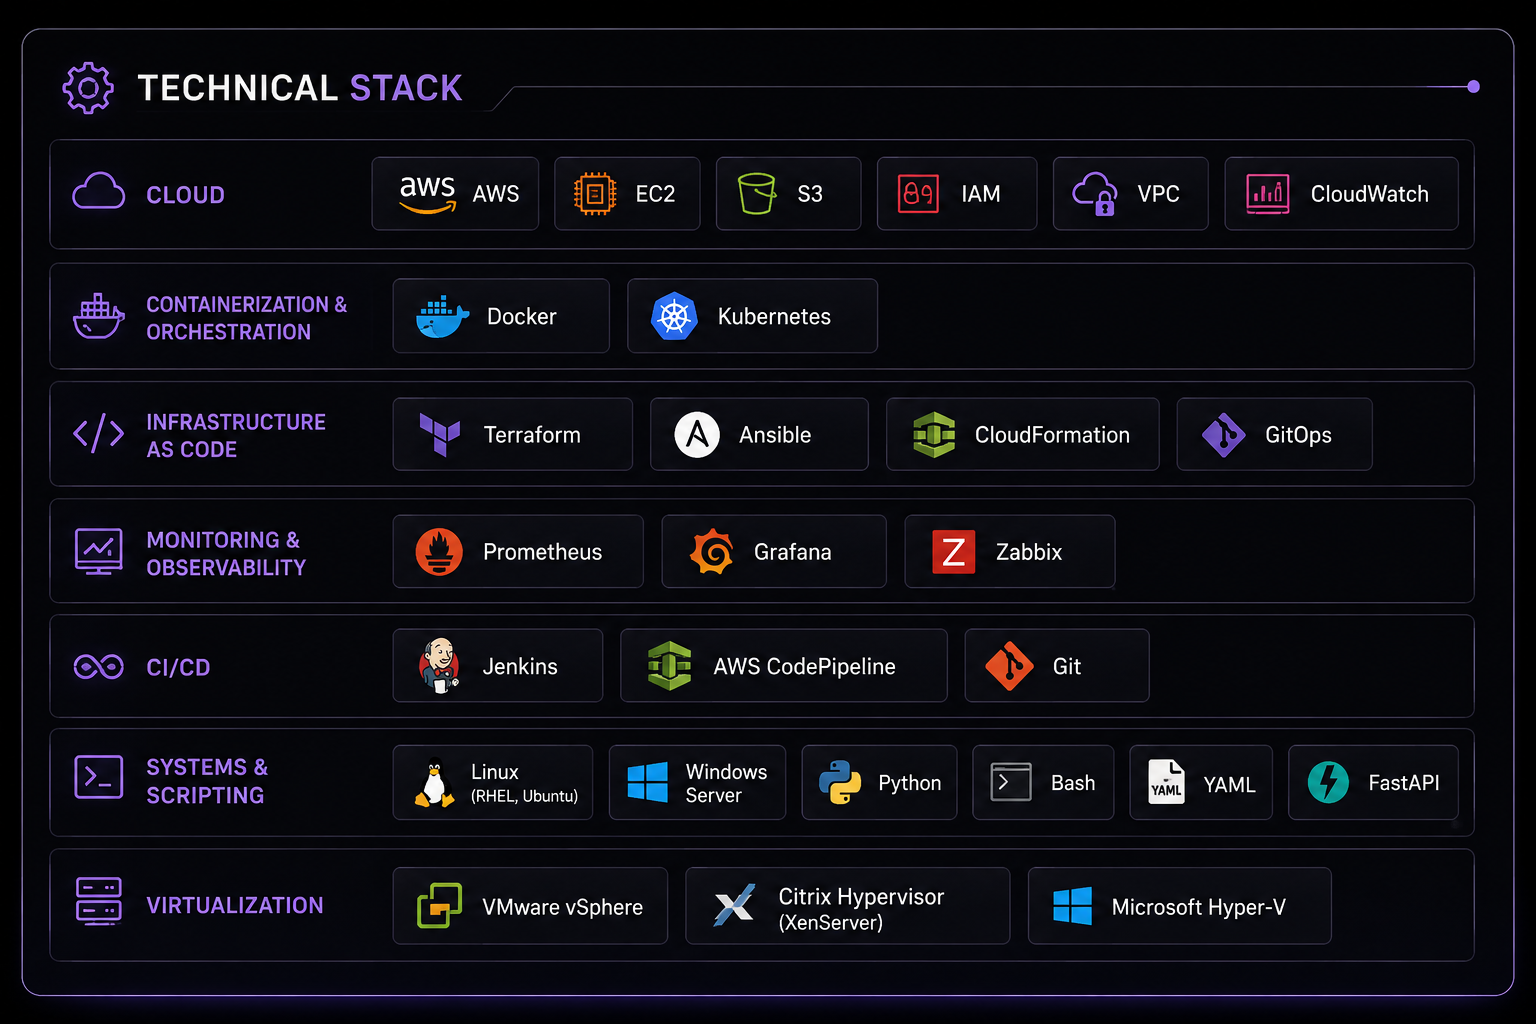
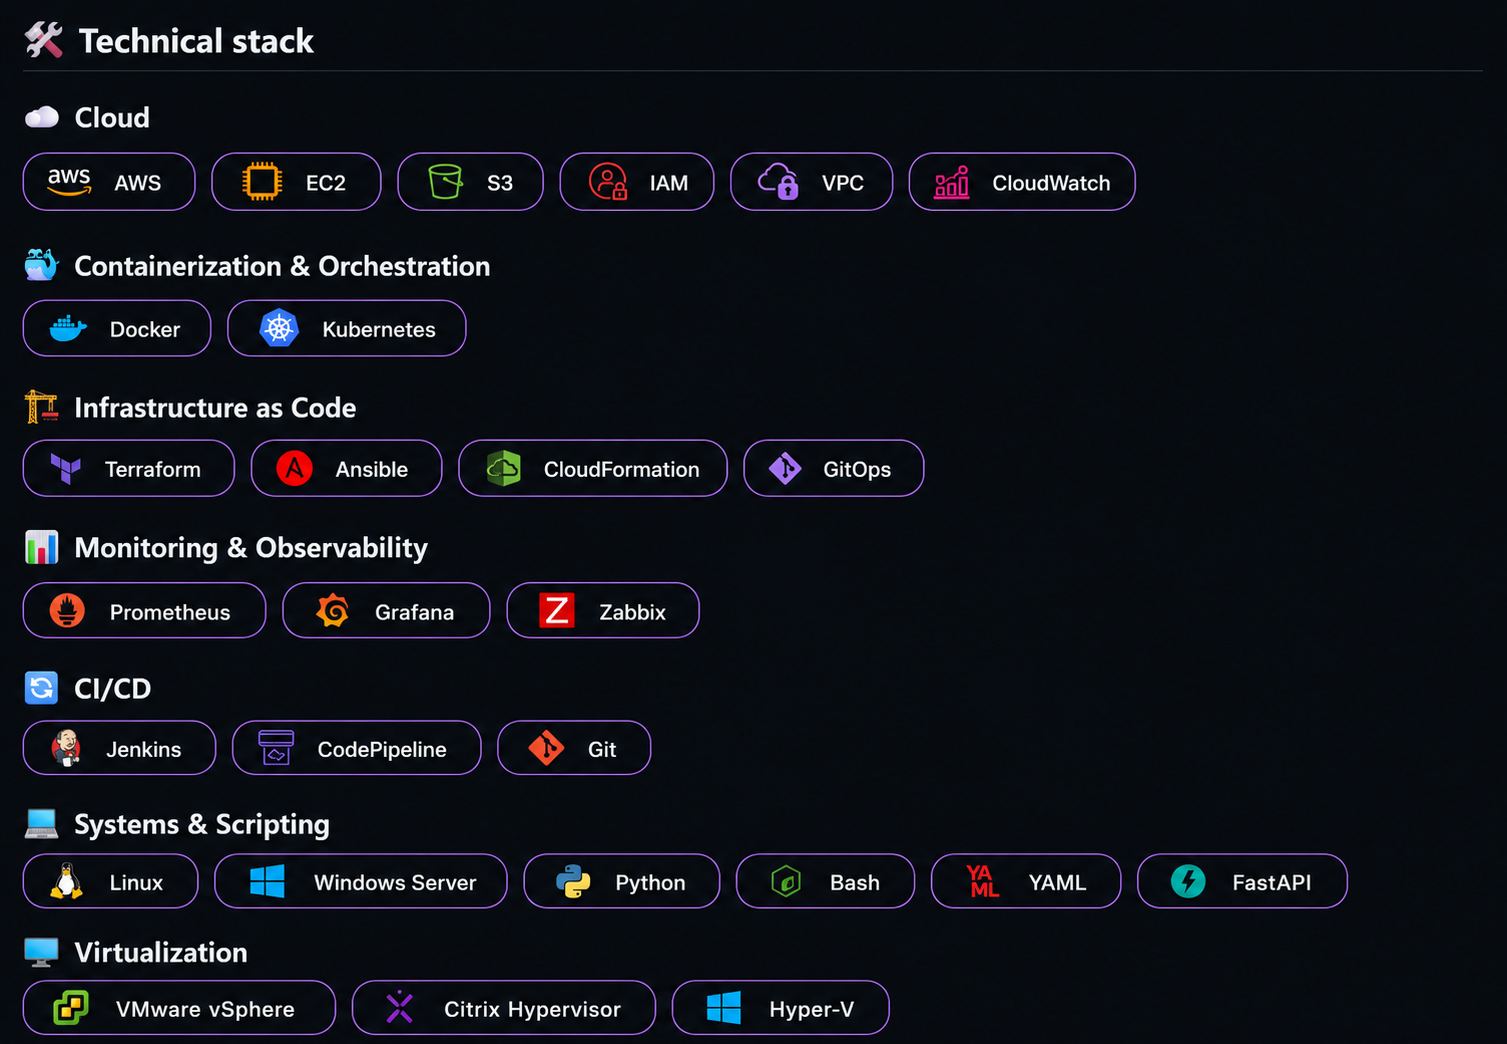
refine profile hero and about section

diff --git a/README.md b/README.md
@@ -18,80 +18,4 @@ I hold the **AWS Certified Solutions Architect – Associate** and **Certified K
 
 ---
 
-## 🛠 Technical stack
-
-### ☁ Cloud
-
-<p align="center">
-
-![AWS](https://img.shields.io/badge/AWS-0B0812?style=for-the-badge&logo=amazonaws&logoColor=FF9900&labelColor=0B0812)
-![EC2](https://img.shields.io/badge/EC2-0B0812?style=for-the-badge&logo=amazonec2&logoColor=FF9900&labelColor=0B0812)
-![S3](https://img.shields.io/badge/S3-0B0812?style=for-the-badge&logo=amazons3&logoColor=569A31&labelColor=0B0812)
-![IAM](https://img.shields.io/badge/IAM-0B0812?style=for-the-badge&logo=amazoniam&logoColor=DD344C&labelColor=0B0812)
-![VPC](https://img.shields.io/badge/VPC-0B0812?style=for-the-badge&logo=amazonvpc&logoColor=8C4FFF&labelColor=0B0812)
-![CloudWatch](https://img.shields.io/badge/CloudWatch-0B0812?style=for-the-badge&logo=amazoncloudwatch&logoColor=FF9900&labelColor=0B0812)
-
-</p>
-
-### 🐳 Containerization & Orchestration
-
-<p align="center">
-
-![Docker](https://img.shields.io/badge/Docker-0B0812?style=for-the-badge&logo=docker&logoColor=2496ED&labelColor=0B0812)
-![Kubernetes](https://img.shields.io/badge/Kubernetes-0B0812?style=for-the-badge&logo=kubernetes&logoColor=326CE5&labelColor=0B0812)
-
-</p>
-
-### 🏗 Infrastructure as Code
-
-<p align="center">
-
-![Terraform](https://img.shields.io/badge/Terraform-0B0812?style=for-the-badge&logo=terraform&logoColor=7B42BC&labelColor=0B0812)
-![Ansible](https://img.shields.io/badge/Ansible-0B0812?style=for-the-badge&logo=ansible&logoColor=EE0000&labelColor=0B0812)
-![CloudFormation](https://img.shields.io/badge/CloudFormation-0B0812?style=for-the-badge&logo=amazonaws&logoColor=FF9900&labelColor=0B0812)
-![GitOps](https://img.shields.io/badge/GitOps-0B0812?style=for-the-badge&logo=git&logoColor=A970FF&labelColor=0B0812)
-
-</p>
-
-### 📊 Monitoring & Observability
-
-<p align="center">
-
-![Prometheus](https://img.shields.io/badge/Prometheus-0B0812?style=for-the-badge&logo=prometheus&logoColor=E6522C&labelColor=0B0812)
-![Grafana](https://img.shields.io/badge/Grafana-0B0812?style=for-the-badge&logo=grafana&logoColor=F46800&labelColor=0B0812)
-![Zabbix](https://img.shields.io/badge/Zabbix-0B0812?style=for-the-badge&logo=zabbix&logoColor=CC0000&labelColor=0B0812)
-
-</p>
-
-### 🔄 CI/CD
-
-<p align="center">
-
-![Jenkins](https://img.shields.io/badge/Jenkins-0B0812?style=for-the-badge&logo=jenkins&logoColor=D24939&labelColor=0B0812)
-![AWS CodePipeline](https://img.shields.io/badge/CodePipeline-0B0812?style=for-the-badge&logo=amazonaws&logoColor=FF9900&labelColor=0B0812)
-![Git](https://img.shields.io/badge/Git-0B0812?style=for-the-badge&logo=git&logoColor=F05032&labelColor=0B0812)
-
-</p>
-
-### 💻 Systems & Scripting
-
-<p align="center">
-
-![Linux](https://img.shields.io/badge/Linux-0B0812?style=for-the-badge&logo=linux&logoColor=FCC624&labelColor=0B0812)
-![Windows Server](https://img.shields.io/badge/Windows%20Server-0B0812?style=for-the-badge&logo=windows&logoColor=0078D4&labelColor=0B0812)
-![Python](https://img.shields.io/badge/Python-0B0812?style=for-the-badge&logo=python&logoColor=3776AB&labelColor=0B0812)
-![Bash](https://img.shields.io/badge/Bash-0B0812?style=for-the-badge&logo=gnubash&logoColor=4EAA25&labelColor=0B0812)
-![YAML](https://img.shields.io/badge/YAML-0B0812?style=for-the-badge&logo=yaml&logoColor=CB171E&labelColor=0B0812)
-![FastAPI](https://img.shields.io/badge/FastAPI-0B0812?style=for-the-badge&logo=fastapi&logoColor=009688&labelColor=0B0812)
-
-</p>
-
-### 🖥 Virtualization
-
-<p align="center">
-
-![VMware vSphere](https://img.shields.io/badge/VMware%20vSphere-0B0812?style=for-the-badge&logo=vmware&logoColor=607078&labelColor=0B0812)
-![Citrix Hypervisor](https://img.shields.io/badge/Citrix%20Hypervisor-0B0812?style=for-the-badge&logo=citrix&logoColor=452170&labelColor=0B0812)
-![Microsoft Hyper-V](https://img.shields.io/badge/Hyper--V-0B0812?style=for-the-badge&logo=windows&logoColor=0078D4&labelColor=0B0812)
-
-</p>
+<img src="assets/profile/tech-stack.png" width="100%" alt="Krutik's technical stack">
